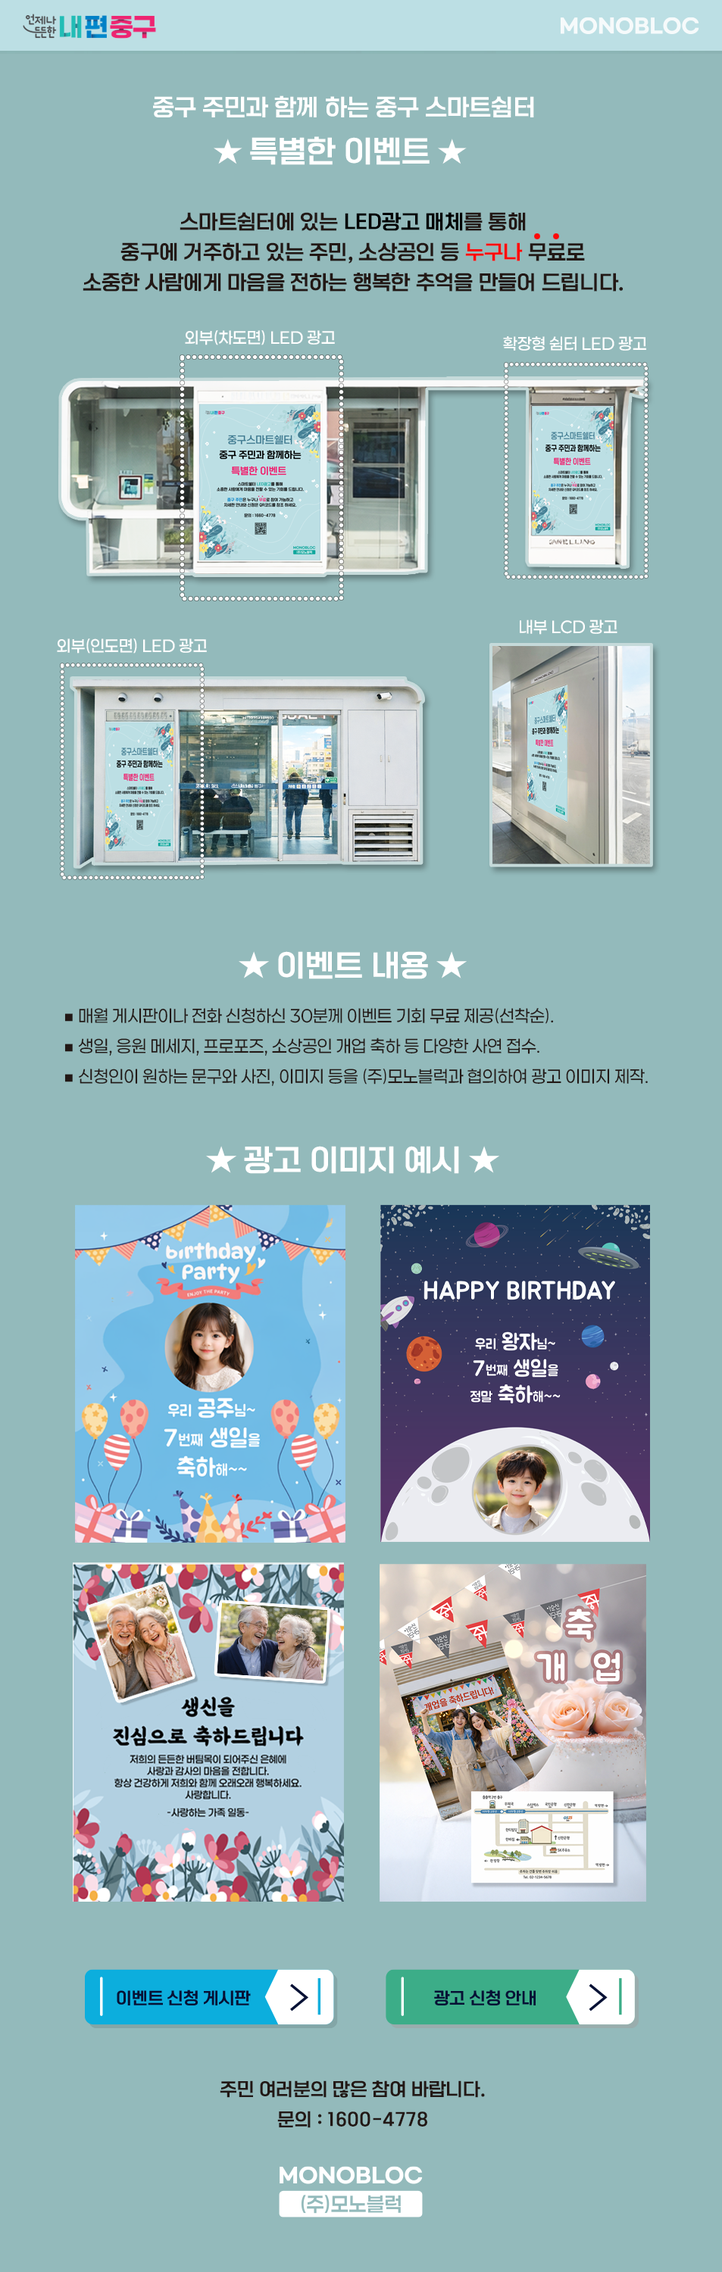
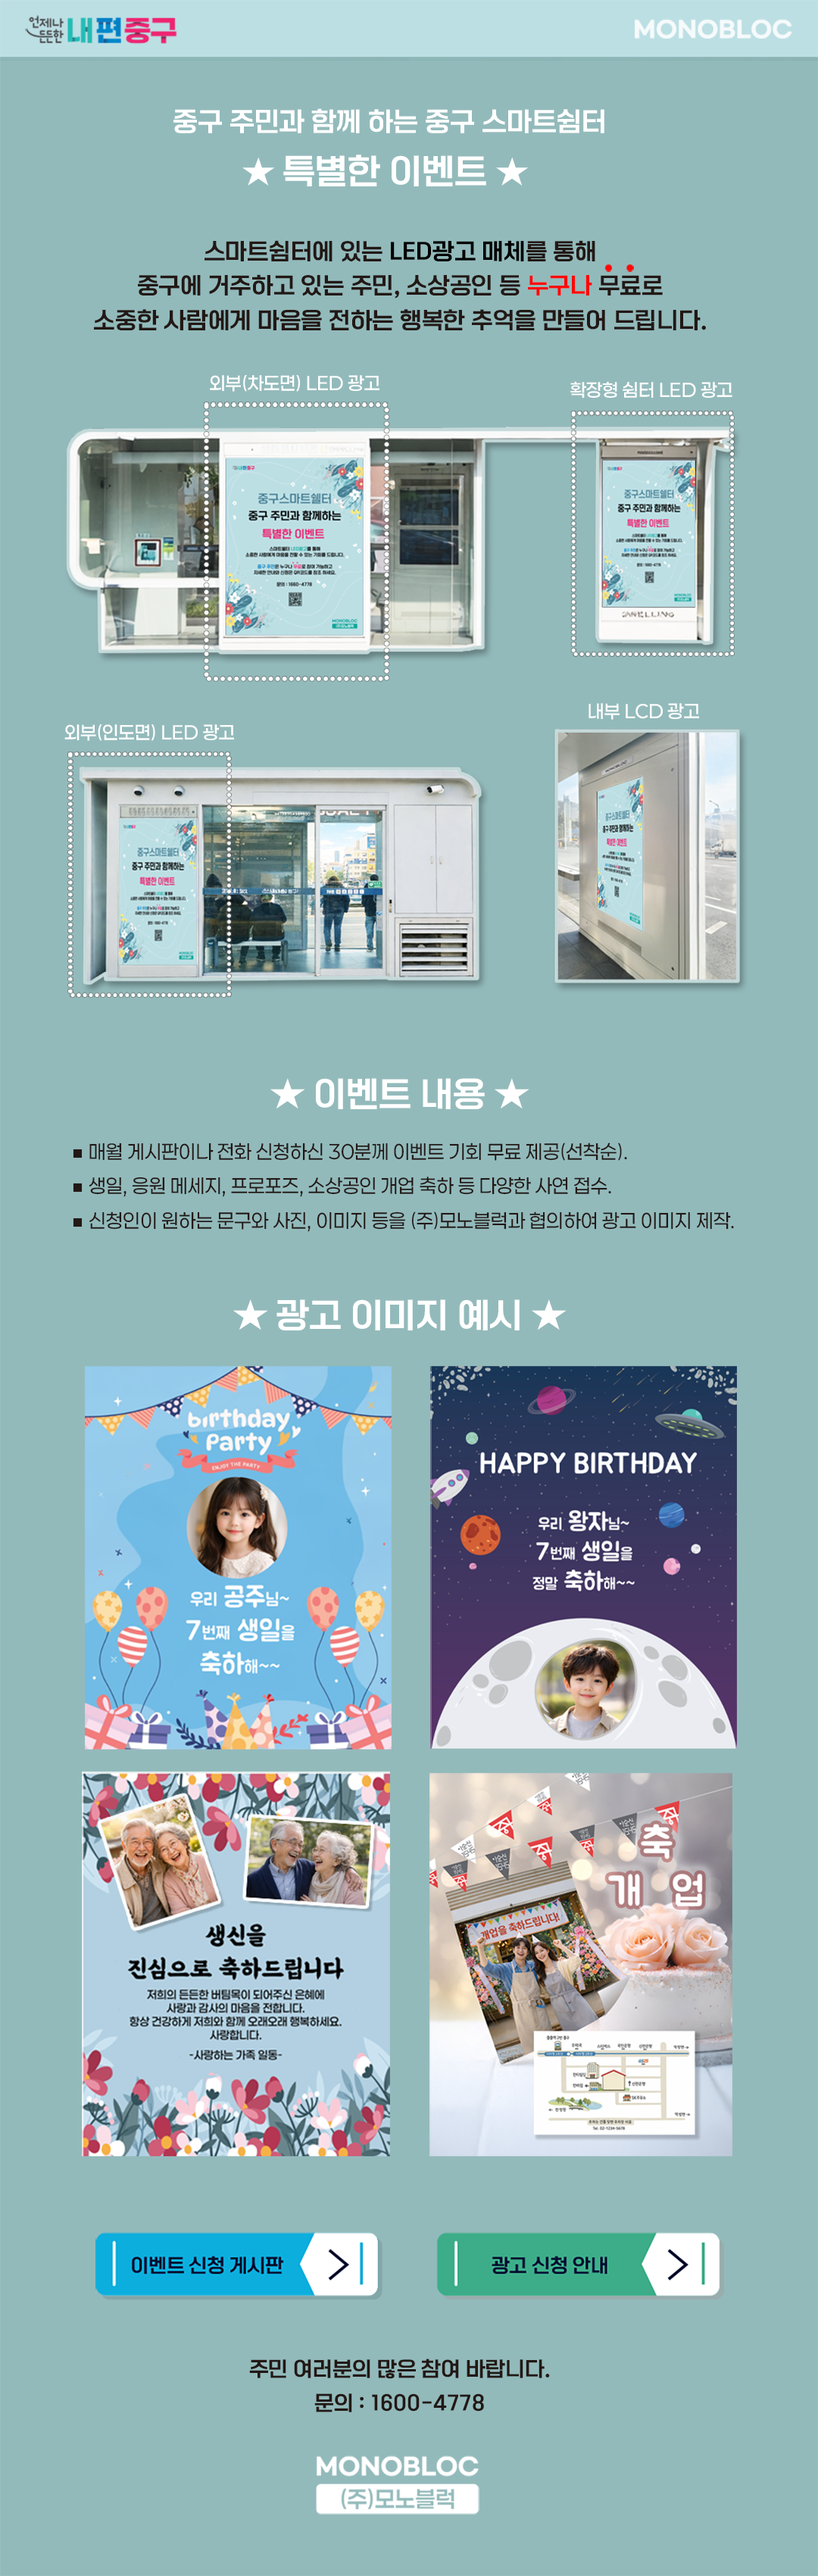
Signed-off-by: Aiden <monoblockcorp.hbk@gmail.com>

diff --git a/index.html b/index.html
@@ -16,7 +16,7 @@
         src="/images/monobloc_ads.png"
         alt="중구 스마트쉘터 이벤트 안내"
         data-base-w="1080"
-        data-base-h="2554" 
+        data-base-h="3400" 
         loading="eager"
         decoding="async"
         fetchpriority="high"
@@ -24,10 +24,10 @@
       
       <div 
         class="click-target" 
-        data-x="120"    /* 왼쪽 끝에서 시작하도록 X값을 줄였습니다 */
-        data-y="2250"   /* 이미지 하단 버튼 높이에 맞춰 Y값을 조정했습니다 */
-        data-w="380"    /* 버튼의 가로 크기 */
-        data-h="70"    /* 버튼의 세로 크기 */
+        data-x="127"    /* 왼쪽 끝에서 시작하도록 X값을 줄였습니다 */
+        data-y="2946"   /* 이미지 하단 버튼 높이에 맞춰 Y값을 조정했습니다 */
+        data-w="379"    /* 버튼의 가로 크기 */
+        data-h="88"    /* 버튼의 세로 크기 */
       >
         <div class="glass-button"></div>
       </div>
